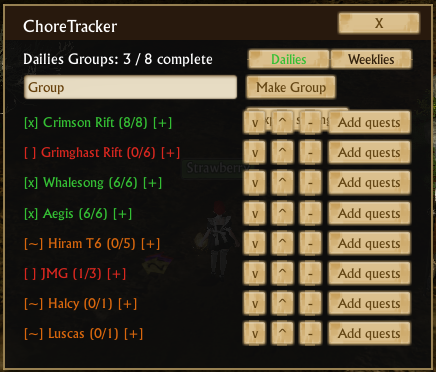
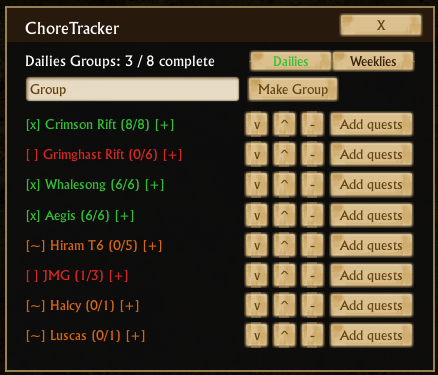
Choretracker: fix image

diff --git a/choretracker/README.md b/choretracker/README.md
@@ -1,4 +1,4 @@
 # Chore tracker
 Tracks chores (daily and weekly quests)
 
-![chore tracker example](https://i.imgur.com/GQ9zgQW.png)
+![chore tracker example](https://i.imgur.com/vJVgH3s.png)
